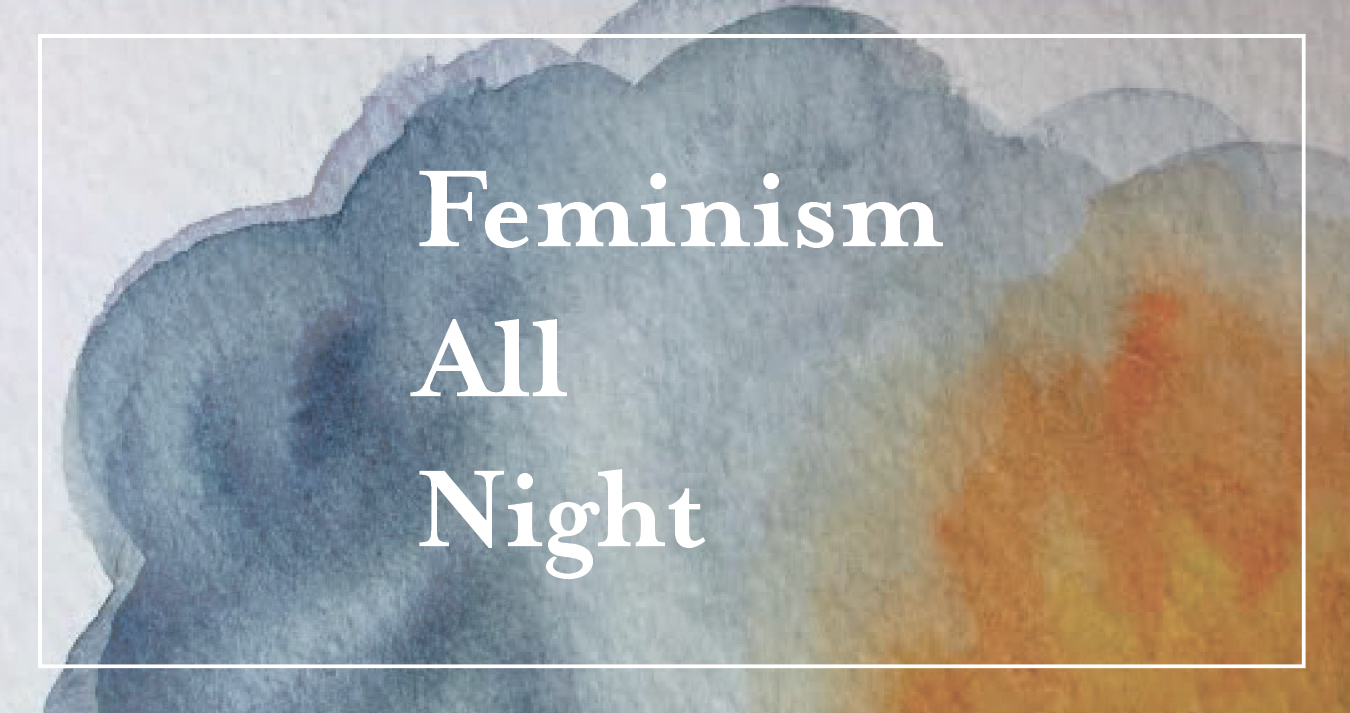
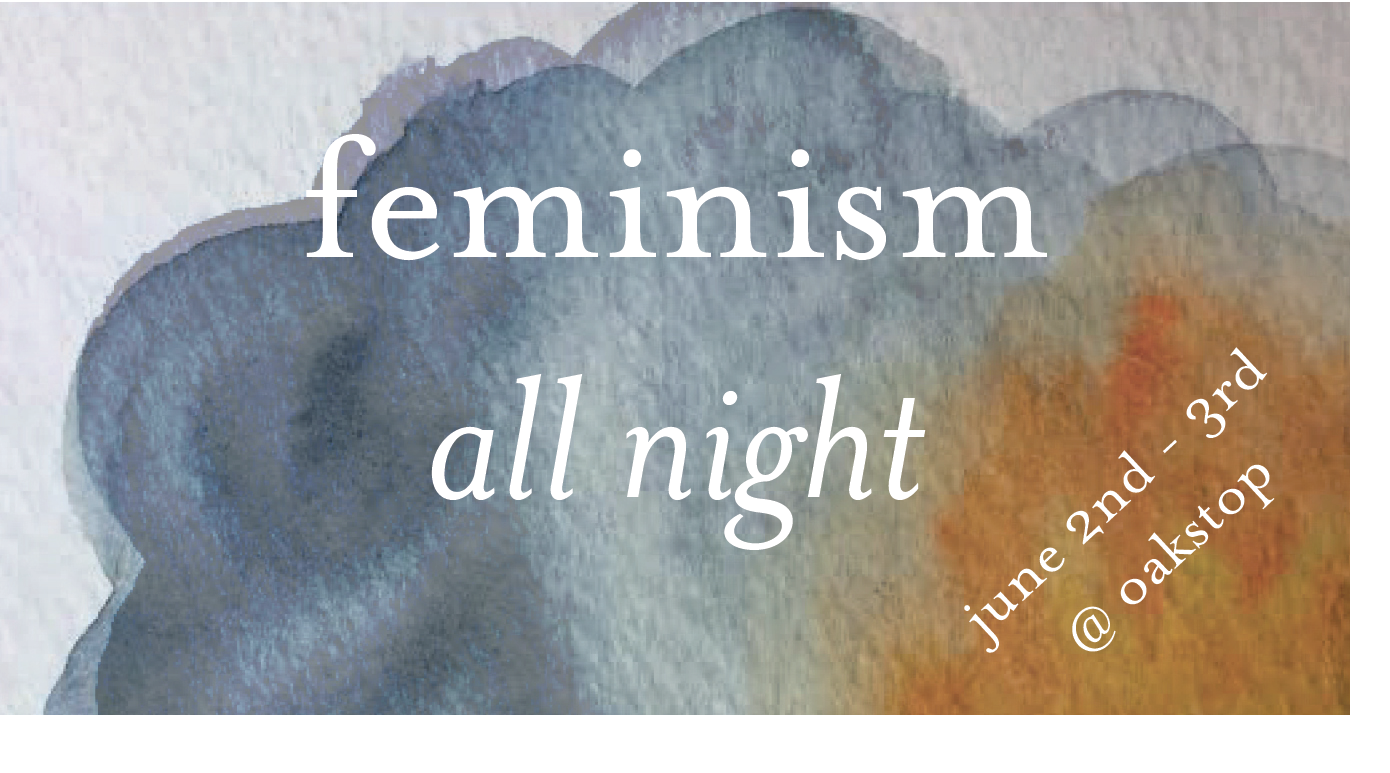
update

diff --git a/index.html b/index.html
@@ -13,7 +13,7 @@
     <link href="css/bootstrap.min.css" rel="stylesheet">
     <link href="css/creative.min.css" rel="stylesheet">
 
-<script src="https://use.typekit.net/ytb6fpg.js"></script>
+<script src="https://use.typekit.net/bud6rlj.js"></script>
 <script>try{Typekit.load({ async: true });}catch(e){}</script>
   <script src="https://ajax.googleapis.com/ajax/libs/jquery/3.1.1/jquery.min.js"></script>
   <script src="https://maxcdn.bootstrapcdn.com/bootstrap/3.3.7/js/bootstrap.min.js"></script>
@@ -27,24 +27,21 @@
     <section id="join">
         <div class="container">
             <div class="row">
-                <div class="col-lg-10 col-lg-offset-1 text-center">
+                <div class="text-center">
                 <div class="section-heading">about</div>
-<p>the talmud begins: the megillah is read. here, the signal of revelation is initiated. </p>
-<p>the mystical entwining travels in the spaces between the seen and the unseen. </p>
-<p>can we tune to the dance?</p>
-<p>the truth masks itself in the depth of the known to be unknown. </p>
-<p>a call : dress in the divine to see the unseen. </p>
-<p>who is the divine amidst political chaos? </p>
-<br><br><br><br>
-<p>an art show centered on talmudic wisdom</p>
-<p>delving into the unseen heart</p>
-<p>painting the divine beauty </p>
-<p>through the medium of print making.</p>
-<br><br><br><br>
-<p>join in celebration, in mourning,</p> <p> in uniting with the divine. </p>
-<br><br><br><br>
-<p>by hadar cohen</p>
-                </div>
+<p>feminism <i>all night</i> is a communal immersive all night long learning experiment to center feminism. it is a call to the community to engage together in feminism: the political, social, economical movement coming to fully challenge and resist patriarchy while dreaming up and manifesting a visionary new way of existence. </p>
+<br><br>
+<p>modeled after shavuot, the jewish holiday calling us to stay up all night to learn together. </p>
+<br><br>
+<p>what is learning? why night time?</p>
+<br><br>
+<p>the magic of learning all night long in community cannot be expressed, only experienced. </p>
+<br><br>
+<p>come join us. in liberation, in holiness, in our collective power to resist && vision anew.</p>
+<br><br>
+<p>register <a href="https://docs.google.com/forms/d/e/1FAIpQLSffM-Ukz2gqJfjXQreH2dWqqgbwig0XEgTzmst4iGAOSFhDLA/viewform">here</a></p>
+
+            </div>
             </div>
         </div>
     </section>
@@ -54,37 +51,37 @@
             <div class="row">
                 <div class="text-center">
                     <div class="section-heading">details</div>
-                    
-<p>opening night</p>
-<p>wednesday, march 8th @ 7 pm</p>
-<p><a href="https://www.facebook.com/events/619415791578544/">fb</a> // 
-<a href="https://www.eventbrite.com/e/regulating-visibility-a-purim-art-show-tickets-31613722495">rsvp </a></p>
+
+<p>friday june 2nd</p>
 <br><br>
-<p>wholly writing: <br>a workshop in devotion with Leora Fridman</p>
-<p>thursday, march 9th @ 7 - 9 pm<p>
-<p><a href="https://www.facebook.com/events/1433803780252544/">fb</a></p>
+<p style="text-align: left;padding-left: 10%;">6:30 pm : kabbalat shabbat prayer service </p>
+<p style="text-align: left;padding-left: 10%;">7:45 pm : shabbat dinner</p>
+<p style="text-align: left;padding-left: 10%;">9:00 pm : opening circle</p>
+<p style="text-align: left;padding-left: 10%;">10:00 pm - 4:00 am : learning all night</p>
 <br><br>
-<p>shabbat prayers && dinner</p>
-<p>friday, march 10th @ 6 pm<p>
-<p><a href="https://www.facebook.com/events/208206859652388/">fb</a> // <a href="https://goo.gl/nQao3i">rsvp</a></p>
+<p>saturday june 3rd </p>
 <br><br>
-<p>megillah reading && purim feast </p>
-<p>sunday, march 12th @ 12 pm </p>
-<p><a href="https://www.facebook.com/events/1313681528677491/">fb</a> // <a href="https://www.eventbrite.com/e/megillah-reading-purim-feast-tickets-31730932072">rsvp</a></p>
+<p style="text-align: left;padding-left: 10%;">2:00 pm : potluck lunch by lake merritt</p>
 <br><br>
-<p>nigun collective</p>
-<p>monday, march 13th @ 7 - 9 pm<p>
-<p><a href="https://www.facebook.com/groups/692698000769685/">fb</a> // <a href="http://nigun.community/">website</a></p>
+<p>we would love to invite community members to teach on feminism. </p>
+<p>we encourage diverse topics such as how feminism relates to race, capitalism, the body, sex, romance, money, learning, spirituality, violence, emotional world, politics, the moment that we are in right now, etc. </p>
+<p>we also encourage various mediums of learning such as movement, singing, text-study, writing, and more. </p>
 <br><br>
-                            <p>free && open to all </p>
+<p><a href="https://docs.google.com/forms/d/e/1FAIpQLSffM-Ukz2gqJfjXQreH2dWqqgbwig0XEgTzmst4iGAOSFhDLA/viewform">apply to lead a workshop by may 22nd</a></p>
 <br><br>
 <br><br>
 
-<iframe width="600" height="450" frameborder="0" style="border:0" src="https://www.google.com/maps/embed/v1/place?q=place_id:ChIJz5Yd739-hYAR0iM8dvuhMac&key=AIzaSyCb9rphYed2fvVImqgDNz0mhcxi_WCgs5o" allowfullscreen></iframe>
+<p>free && open to all </p>
+<br><br>
+<p><a href="fb">fb event</a></p>
+<br><br>
+<p>location: oakstop</p>
+<p>1721 broadway #201, oakland, ca 94612</p>
+<br><br>
 
-<p>location</p>
-<p>art house gallery and cultural center</p>
-<p>2905 shattuck ave, berkeley, ca 94705</p>
+<iframe src="https://www.google.com/maps/embed?pb=!1m18!1m12!1m3!1d3152.275339927022!2d-122.27193755001342!3d37.80701921797912!2m3!1f0!2f0!3f0!3m2!1i1024!2i768!4f13.1!3m3!1m2!1s0x808f80b23f490f3d%3A0x5882e5a48cadf021!2sOakstop!5e0!3m2!1sen!2sus!4v1494373545034" width="600" height="450" frameborder="0" style="border:0" allowfullscreen></iframe>
+
+
                 </div>
             </div>
         </div>
@@ -94,8 +91,10 @@
         <div class="container">
             <div class="row">
                 <div class="col-lg-8 col-lg-offset-2 text-center">
-                    <div class="section-heading">contact</div>
-                    <p><a href="mailto:hadarcohen32@gmail.com">hadarcohen32@gmail.com</a></p>
+                    <div class="section-heading">questions?</div>
+                    <br><br>
+
+                    <p>contact me (hadar) at <a href="mailto:hadarcohen32@gmail.com">hadarcohen32@gmail.com</a></p>
                 </div>
             </div>
         </div>
@@ -106,11 +105,7 @@
             <div class="row">
                 <div class="col-lg-8 col-lg-offset-2 text-center">
                     <div class="section-heading">with gratitude to :</div>
-                    <p><a href="http://onetable.org/">OneTable</a></p>
-                    <p><a href="https://www.mechonhadar.org/">Mechon Hadar</a></p>
                     <p><a href="https://www.moishehouse.org">Moishe House</a></p>
-                    <p><a href="https://covenantwines.com/">Covenant Wines</a></p>
-                    <p><a href="https://www.facebook.com/groups/930549453624827/">Moishe House East Bay</a></p>
 
                 </div>
             </div>

diff --git a/css/creative.min.css b/css/creative.min.css
@@ -6,7 +6,7 @@ body {
 
 }
 body {
-  font-family: "essonnes-text";
+  font-family: "mrs-eaves";
   color: #bf8046;
   background-color: #435672;
 }
@@ -35,9 +35,8 @@ h5,
 h6 {
 }
 p {
-  font-size: 16px;
+  font-size: 12px;
   line-height: 1.5;
-  margin-bottom: 20px;
 }
 
 .text-faded {
@@ -260,7 +259,7 @@ img::selection {
   webkit-tap-highlight-color: #222222;}
 
 .section-heading {
-  color: #520A99;
+  color: #ce502e;
   font-size: 72px;
   padding-bottom: 4%;
 }
